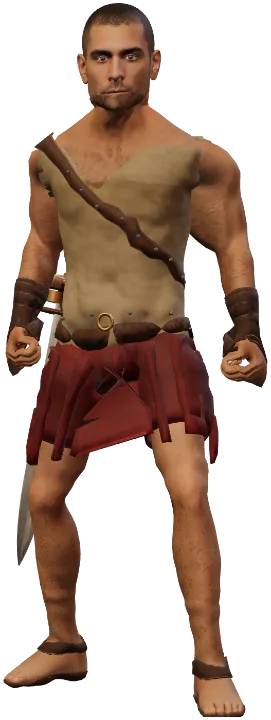
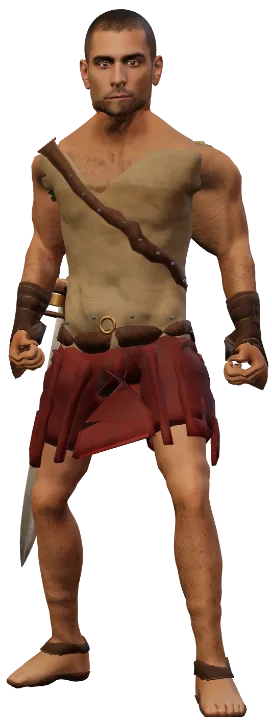
Paperdoll shows the worn gear: rendered layer per loot id over the figure
Owner 2026-09-22 (lead: route A). scripts/loot-layers.mjs renders the rig bare and one
occlusion-correct layer per loot id from loot.glb into public/game/img/loot, in one
frame, and generates the style.css rules; the loader puts the worn id on the slot.

diff --git a/index.html b/index.html
@@ -42,7 +42,7 @@
       </section>
       <section class="tab-pane pane-profile" aria-label="Profile">
         <h4>Worn</h4>
-        <div class="doll" aria-label="Paperdoll: what your fighter wears"><img class="doll-figure" src="/game/img/fighter.webp" alt="Your fighter" width="271" height="720" decoding="async"><div class="slot" id="slot-head" data-slot="head"><span>Head</span><i id="slot-head-name">Empty</i><button class="slot-off" id="slot-head-off" type="button" data-unwear="head" hidden>Store</button></div><div class="slot" id="slot-hands" data-slot="hands"><span>Hands</span><i id="slot-hands-name">Empty</i><button class="slot-off" id="slot-hands-off" type="button" data-unwear="hands" hidden>Store</button></div><div class="slot" id="slot-chest" data-slot="chest"><span>Chest</span><i id="slot-chest-name">Empty</i><button class="slot-off" id="slot-chest-off" type="button" data-unwear="chest" hidden>Store</button></div><div class="slot" id="slot-legs" data-slot="legs"><span>Legs</span><i id="slot-legs-name">Empty</i><button class="slot-off" id="slot-legs-off" type="button" data-unwear="legs" hidden>Store</button></div><div class="slot" id="slot-arms" data-slot="arms"><span>Arms</span><i id="slot-arms-name">Empty</i><button class="slot-off" id="slot-arms-off" type="button" data-unwear="arms" hidden>Store</button></div><div class="slot" id="slot-feet" data-slot="feet"><span>Feet</span><i id="slot-feet-name">Empty</i><button class="slot-off" id="slot-feet-off" type="button" data-unwear="feet" hidden>Store</button></div><div class="slot on" id="slot-main" data-slot="main"><span>Main hand</span><i id="slot-main-name">Longsword</i><button class="slot-off" id="slot-main-off" type="button" data-unwear="main" hidden>Store</button></div><div class="slot" id="slot-off" data-slot="off" aria-disabled="true"><span>Off hand</span><i id="slot-off-name">Empty</i><button class="slot-off" id="slot-off-off" type="button" data-unwear="off" hidden>Store</button></div></div>
+        <div class="doll" aria-label="Paperdoll: what your fighter wears"><div class="doll-figure"><img src="/game/img/fighter.webp" alt="Your fighter" width="272" height="720" decoding="async"><i class="doll-layer" data-layer="chest"></i><i class="doll-layer" data-layer="legs"></i><i class="doll-layer" data-layer="feet"></i><i class="doll-layer" data-layer="arms"></i><i class="doll-layer" data-layer="hands"></i><i class="doll-layer" data-layer="head"></i></div><div class="slot" id="slot-head" data-slot="head"><span>Head</span><i id="slot-head-name">Empty</i><button class="slot-off" id="slot-head-off" type="button" data-unwear="head" hidden>Store</button></div><div class="slot" id="slot-hands" data-slot="hands"><span>Hands</span><i id="slot-hands-name">Empty</i><button class="slot-off" id="slot-hands-off" type="button" data-unwear="hands" hidden>Store</button></div><div class="slot" id="slot-chest" data-slot="chest"><span>Chest</span><i id="slot-chest-name">Empty</i><button class="slot-off" id="slot-chest-off" type="button" data-unwear="chest" hidden>Store</button></div><div class="slot" id="slot-legs" data-slot="legs"><span>Legs</span><i id="slot-legs-name">Empty</i><button class="slot-off" id="slot-legs-off" type="button" data-unwear="legs" hidden>Store</button></div><div class="slot" id="slot-arms" data-slot="arms"><span>Arms</span><i id="slot-arms-name">Empty</i><button class="slot-off" id="slot-arms-off" type="button" data-unwear="arms" hidden>Store</button></div><div class="slot" id="slot-feet" data-slot="feet"><span>Feet</span><i id="slot-feet-name">Empty</i><button class="slot-off" id="slot-feet-off" type="button" data-unwear="feet" hidden>Store</button></div><div class="slot on" id="slot-main" data-slot="main"><span>Main hand</span><i id="slot-main-name">Longsword</i><button class="slot-off" id="slot-main-off" type="button" data-unwear="main" hidden>Store</button></div><div class="slot" id="slot-off" data-slot="off" aria-disabled="true"><span>Off hand</span><i id="slot-off-name">Empty</i><button class="slot-off" id="slot-off-off" type="button" data-unwear="off" hidden>Store</button></div></div>
         <ul id="loot-rack" class="rack" aria-label="Pieces won" hidden><li class="rack-empty"></li><li class="rack-empty"></li><li class="rack-empty"></li><li class="rack-empty"></li><li class="rack-empty"></li></ul>
       </section>
       <section class="tab-pane pane-arena" aria-label="Next fight">

diff --git a/src/style.css b/src/style.css
@@ -1501,7 +1501,27 @@ dialog .scorecard-table tr:last-child td { color: var(--jf); font-weight: 600; }
    in the design scratchpad); three armour slots down each side, the two hands beneath. src/main.ts fills <i> from
    profile.loot.equipped, adds .on to a worn slot and un-hides its Store button (data-unwear). */
 .doll { display: grid; grid-template-columns: minmax(0, 1fr) minmax(88px, 104px) minmax(0, 1fr); grid-template-rows: repeat(4, auto); gap: 6px; align-items: stretch; }
-.doll-figure { grid-column: 2; grid-row: 1 / 5; justify-self: center; align-self: end; height: 100%; width: auto; max-height: 320px; margin-bottom: 4px; object-fit: contain; filter: drop-shadow(0 6px 10px #0003); }
+.doll-figure { grid-column: 2; grid-row: 1 / 5; justify-self: center; align-self: end; position: relative; height: 100%; width: max-content; max-height: 320px; margin-bottom: 4px; filter: drop-shadow(0 6px 10px #0003); }
+.doll-figure img { display: block; height: 100%; width: auto; max-height: 320px; }
+/* Worn pieces over the figure (scripts/loot-layers.mjs): one layer per paperdoll key, cropped to the figure's frame, shown when the loader
+   has put a loot id on that slot (#slot-<key>[data-loot]); the generated block below maps each id to its image. Render order: body, legs,
+   feet, arms, hands, head. A live render of the rig (the lead's route B) replaces this element when it lands. */
+.doll-layer { position: absolute; inset: 0; background: center / 100% 100% no-repeat; pointer-events: none; }
+/* loot-layers:start (generated by scripts/loot-layers.mjs, do not edit) */
+.doll:has(#slot-legs[data-loot='dwarf.Greaves']) .doll-layer[data-layer='legs'] { background-image: url(/game/img/loot/dwarf.Greaves.webp); }
+.doll:has(#slot-head[data-loot='executioner.Crest']) .doll-layer[data-layer='head'] { background-image: url(/game/img/loot/executioner.Crest.webp); }
+.doll:has(#slot-legs[data-loot='executioner.Greaves']) .doll-layer[data-layer='legs'] { background-image: url(/game/img/loot/executioner.Greaves.webp); }
+.doll:has(#slot-head[data-loot='executioner.Helmet']) .doll-layer[data-layer='head'] { background-image: url(/game/img/loot/executioner.Helmet.webp); }
+.doll:has(#slot-arms[data-loot='goblin.Arms']) .doll-layer[data-layer='arms'] { background-image: url(/game/img/loot/goblin.Arms.webp); }
+.doll:has(#slot-chest[data-loot='goblin.Body']) .doll-layer[data-layer='chest'] { background-image: url(/game/img/loot/goblin.Body.webp); }
+.doll:has(#slot-chest[data-loot='nightborn.Body']) .doll-layer[data-layer='chest'] { background-image: url(/game/img/loot/nightborn.Body.webp); }
+.doll:has(#slot-feet[data-loot='nightborn.Boots']) .doll-layer[data-layer='feet'] { background-image: url(/game/img/loot/nightborn.Boots.webp); }
+.doll:has(#slot-head[data-loot='nightborn.Helmet']) .doll-layer[data-layer='head'] { background-image: url(/game/img/loot/nightborn.Helmet.webp); }
+.doll:has(#slot-arms[data-loot='pitborn.Arms']) .doll-layer[data-layer='arms'] { background-image: url(/game/img/loot/pitborn.Arms.webp); }
+.doll:has(#slot-head[data-loot='veteran.Crest']) .doll-layer[data-layer='head'] { background-image: url(/game/img/loot/veteran.Crest.webp); }
+.doll:has(#slot-legs[data-loot='veteran.Greaves']) .doll-layer[data-layer='legs'] { background-image: url(/game/img/loot/veteran.Greaves.webp); }
+.doll:has(#slot-head[data-loot='veteran.Helmet']) .doll-layer[data-layer='head'] { background-image: url(/game/img/loot/veteran.Helmet.webp); }
+/* loot-layers:end */
 .doll .slot { display: flex; flex-direction: column; justify-content: center; min-height: 72px; }   /* room for the 40 px Store button */
 .doll [data-slot='head'], .doll [data-slot='chest'], .doll [data-slot='arms'], .doll [data-slot='main'] { grid-column: 1; }
 .doll [data-slot='hands'], .doll [data-slot='legs'], .doll [data-slot='feet'], .doll [data-slot='off'] { grid-column: 3; }

diff --git a/tests/loot-layers.test.ts b/tests/loot-layers.test.ts
@@ -1,0 +1,25 @@
+// The journal's paperdoll layers (scripts/loot-layers.mjs): every loot id the game can drop has a rendered layer in the same frame as the
+// figure and a style.css rule that shows it on #slot-<key>[data-loot], and the figure carries one layer element per wearable paperdoll key.
+import assert from 'node:assert/strict';
+import { existsSync, readFileSync } from 'node:fs';
+import test from 'node:test';
+import { LOOT, PAPERDOLL, paperdollOf, slotOf } from '../src/loot.ts';
+
+const root = new URL('../', import.meta.url), read = (path: string) => readFileSync(new URL(path, root), 'utf8');
+const ids = Object.values(LOOT).flat();
+
+test('every loot id has a rendered layer and its style.css rule', () => {
+  const css = read('src/style.css');
+  for (const id of ids) {
+    assert.ok(existsSync(new URL(`public/game/img/loot/${id}.webp`, root)), `${id}: run node scripts/loot-layers.mjs`);
+    assert.ok(css.includes(`#slot-${paperdollOf(slotOf(id))}[data-loot='${id}']`), `${id}: style.css rule missing (regenerate the loot-layers block)`);
+  }
+});
+
+test('the figure carries one layer per wearable paperdoll key, head drawn last', () => {
+  const html = read('index.html'), layers = [...html.matchAll(/<i class="doll-layer" data-layer="(\w+)"><\/i>/g)].map(m => m[1]);
+  const wearable = (Object.keys(PAPERDOLL) as (keyof typeof PAPERDOLL)[]).filter(key => PAPERDOLL[key].length);
+  assert.deepEqual([...layers].sort(), [...wearable].sort());
+  assert.equal(layers.at(-1), 'head');
+  assert.match(html, /<div class="doll-figure"><img src="\/game\/img\/fighter\.webp"/);
+});

diff --git a/src/main.ts b/src/main.ts
@@ -80,6 +80,7 @@ function renderLoot() {
     const id = loot.equipped[key];
     element(`slot-${key}-name`).textContent = id ? pieceName(id) : key === 'main' ? playerWeapon[0]!.toUpperCase() + playerWeapon.slice(1) : 'Empty';
     element(`slot-${key}`).classList.toggle('on', !!id || key === 'main');
+    element(`slot-${key}`).setAttribute('data-loot', id ?? '');   // the worn id, for the paperdoll's image layers (style.css loot-layers block)
     element(`slot-${key}-off`).hidden = !id;
   }
   const rows = loot.owned.map((id) => {

diff --git a/docs/state/web.md b/docs/state/web.md
@@ -1,3 +1,7 @@
+## 2026-09-22 — Paperdoll shows the worn gear (owner 12:4x; lead: route A, per-piece layers)
+
+Owner: "the player image should dynamically update with the gear... the helmet, it should show it wearing it? also the arms?" Lead (12:44): pre-rendered overlay layers, CSS-toggled, built by a script over the loot file, not hand-made; Strategy prefers a live rig render (route B) for loot v2 and accepts this as the per-piece interim. `scripts/loot-layers.mjs`: renders the player rig (warrior.glb, Idle, front) once bare and once per loot id in loot.glb with the body as a depth-only occluder, worn the way characters.ts wears it (replace hides the slot + Hair, palette materials swapped by name), crops all to one union frame (272×720), writes `public/game/img/fighter.webp` + `public/game/img/loot/<id>.webp` (13 layers, 1.2–7.4 KB each, 51 KB total), sets the img's width/height and rewrites the `loot-layers` block in style.css (one `.doll:has(#slot-<key>[data-loot='<id>']) .doll-layer[data-layer=<key>]` rule per id). Markup: `.doll-figure` is now a wrapper (img + six `i.doll-layer`, body→legs→feet→arms→hands→head); a live render replaces that element when route B lands. One loader line (main.ts renderLoot): `#slot-<key>` gets `data-loot=<id>` (the CSS needs the id, not just `.on`). Test `tests/loot-layers.test.ts`: every LOOT id has a layer file + rule; the figure carries one layer per wearable key. Receipts: quality:ci 482 tests / 480 pass / 0 fail, Budget PASS (dist gz 24,018,815 of 32,000,000); previews `scratchpad/previews/out/doll-{bare,helmet-arms,nightborn,goblin}.html`. Rerun the script after every loot.glb change (Multi Chars' armour draws, Weapons' trident — weapons need a Main/Off-hand layer key, not in PAPERDOLL yet).
+
 # Web design — project state
 
 Entries moved verbatim from the root PROJECT_STATE.md on 2026-09-21 (state split). Append new entries at the TOP. Keep evidence and remaining validation in every entry (AGENTS.md).
